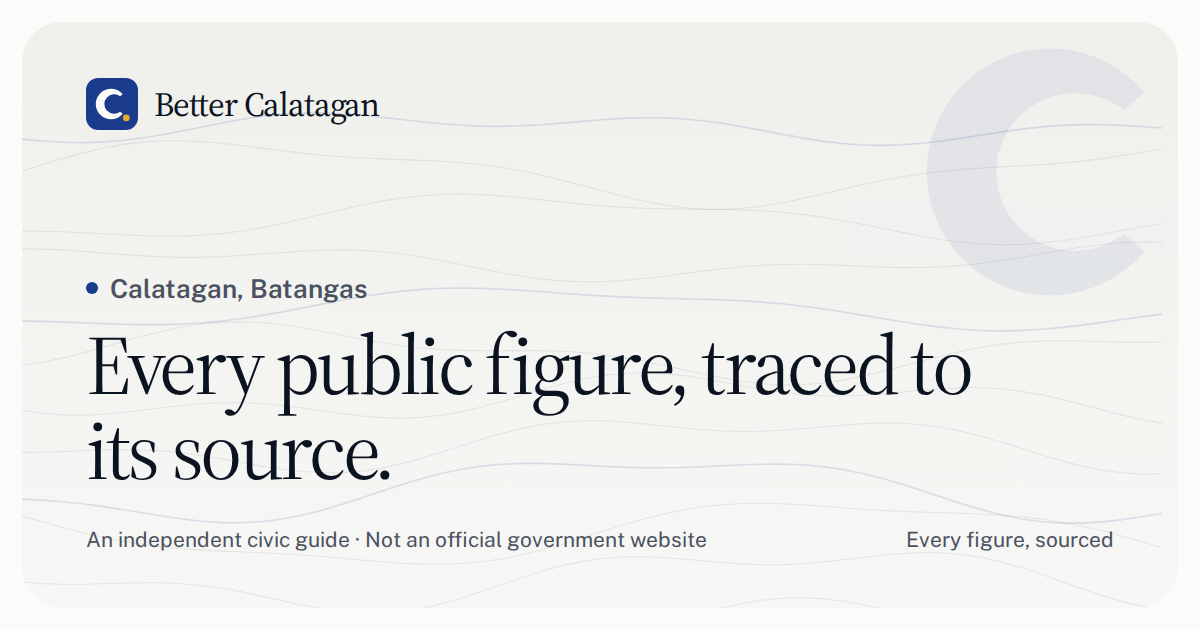
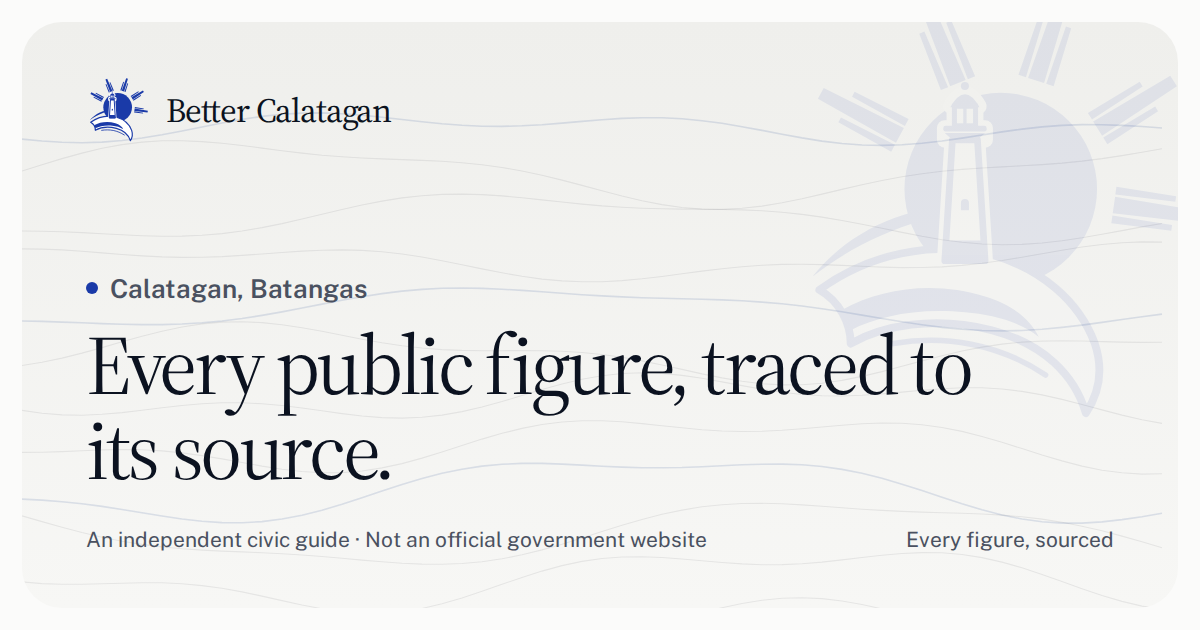
Adopt the lighthouse emblem; rebuild the ask bar after America.gov
- New emblem in the BetterGov.ph family style: the Cape Santiago
  lighthouse on the cape before the Philippine sun, one royal blue
  (public/logo.svg, public/logo-mark.svg, reversed variant). Used in the
  header and footer; favicon, app icons and every Open Graph image
  regenerated from it by scripts/brand.mjs.
- Ask bar: taller, wider pill with a soft outline and deep-navy arrow, as
  on America.gov. The "/" key hint is replaced by voice input, shown only
  where the browser supports speech recognition. Same treatment on the
  home page ask box.

Claude-Session: https://claude.ai/code/session_01TgafrdRNV85Mutbx8ccEx6

Changed region(s): [[0.0617, 0.1206, 0.3392, 0.2111], [0.0617, 0.4524, 0.0925, 0.4825]]

diff --git a/src/scripts/ui.ts b/src/scripts/ui.ts
@@ -469,3 +469,41 @@ for (const box of document.querySelectorAll<HTMLElement>('[data-inline-search]')
     }
   });
 }
+
+/* ---------- Voice input for the ask boxes (where the browser supports it) ---------- */
+
+type Recognition = {
+  lang: string;
+  interimResults: boolean;
+  start(): void;
+  stop(): void;
+  onresult: ((e: { results: ArrayLike<ArrayLike<{ transcript: string }>> }) => void) | null;
+  onend: (() => void) | null;
+};
+const SpeechAPI = (window as unknown as { SpeechRecognition?: new () => Recognition; webkitSpeechRecognition?: new () => Recognition })
+  .SpeechRecognition ?? (window as unknown as { webkitSpeechRecognition?: new () => Recognition }).webkitSpeechRecognition;
+if (SpeechAPI) {
+  for (const button of document.querySelectorAll<HTMLButtonElement>('[data-voice]')) {
+    const input = button.closest('form')?.querySelector('input');
+    if (!input) continue;
+    button.hidden = false;
+    let rec: Recognition | null = null;
+    button.addEventListener('click', () => {
+      if (rec) return rec.stop();
+      rec = new SpeechAPI();
+      rec.lang = 'en-PH';
+      rec.interimResults = true;
+      button.classList.add('listening');
+      rec.onresult = (e) => {
+        input.value = Array.from(e.results, (r) => r[0].transcript).join('');
+        input.dispatchEvent(new Event('input', { bubbles: true }));
+      };
+      rec.onend = () => {
+        button.classList.remove('listening');
+        rec = null;
+        input.focus();
+      };
+      rec.start();
+    });
+  }
+}

diff --git a/docs/adr/0006-editorial-redesign.md b/docs/adr/0006-editorial-redesign.md
@@ -54,11 +54,13 @@ JavaScript every page is complete and every list is shown in full.
 columns and bars that grow into view, count-up figures, a manifesto that lights word by word.
 Everything stops under `prefers-reduced-motion`, and the carousel never auto-advances then.
 
-**Mark.** A stressed, serif-weighted "C" drawn as the curve of the bay, with a single gold point
-at its southern tip for the Cape Santiago light, in a navy rounded square. Still never a circle,
-shield, wreath or seal. `scripts/brand.mjs` renders the favicon, app icons and one Open Graph
-image per section from the vector mark and the site's own fonts; share images carry titles only,
-never figures, so they cannot drift out of date.
+**Mark.** An emblem in the BetterGov.ph family: a royal-blue Philippine sun with split flag rays, the
+Cape Santiago lighthouse (tapered tower, base band, bracketed gallery, lantern and dome, after
+the real light) standing on a sweeping white cape with the sea curling below, and "BETTER
+CALATAGAN" arched along the lower left. One colour, so it reproduces anywhere. Sources:
+`public/logo.svg` (with lettering) and `public/logo-mark.svg`. `scripts/brand.mjs` renders the
+favicon, app icons and one Open Graph image per section from the mark; share images carry titles
+only, never figures, so they cannot drift out of date.
 
 ### What did not change
 

diff --git a/CHANGELOG.md b/CHANGELOG.md
@@ -14,8 +14,8 @@ patterns shared across the Better LGU portals. **No data changed.**
   with its optical-size axis) and Public Sans for interface; one navy accent; full dark mode with a
   light / dark / system switch. Every text pairing measured at WCAG 2.2 AA; axe-core clean on every
   page in both themes; no horizontal scroll at 320 px.
-- **New mark:** a serif "C" drawn as the curve of the bay with a gold point for the Cape Santiago
-  light. New favicon, Apple touch and web-app icons, `site.webmanifest`, and one Open Graph share
+- **New emblem:** the Cape Santiago lighthouse on the cape, before the Philippine sun, drawn in
+  the BetterGov.ph family style (`public/logo.svg`, `public/logo-mark.svg`). New favicon, Apple touch and web-app icons, `site.webmanifest`, and one Open Graph share
   image per section, all rendered by `scripts/brand.mjs`.
 - **Ask anything:** "Kumusta, Calatagan" home page with a question box; a floating ask bar on
   every page; a ⌘K / Ctrl K search dialog. Facts answer inline with their source, from a
